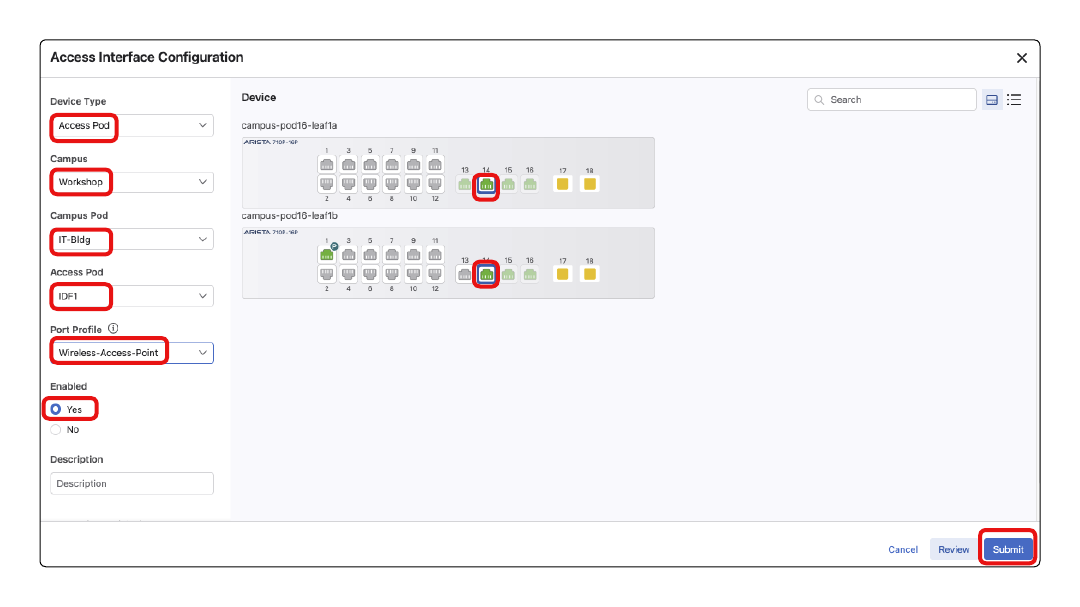
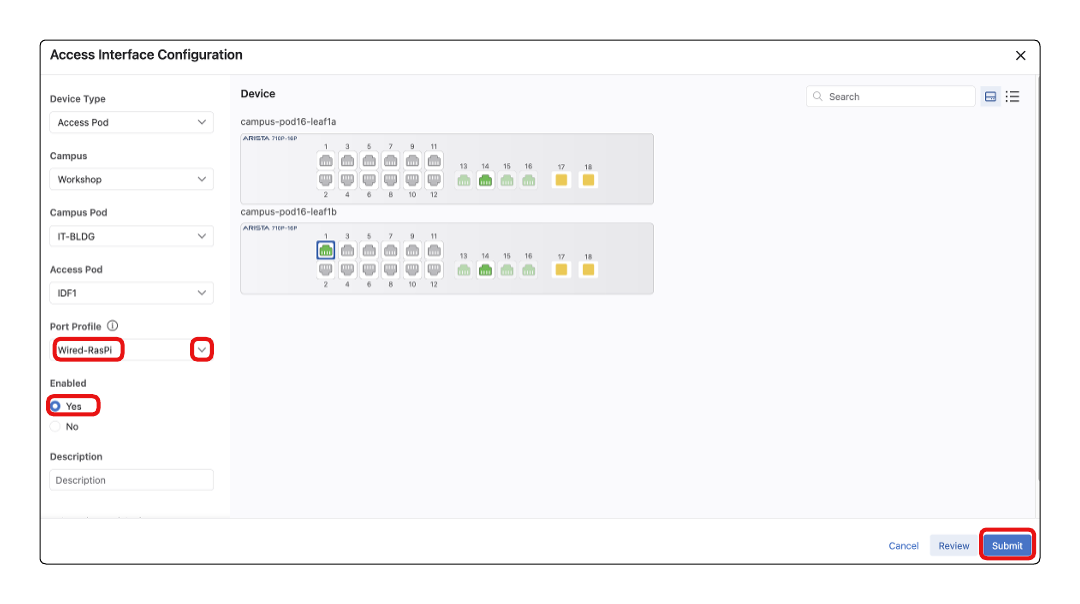
Network Hierarchy config workflow and some formatting in the lab guides

diff --git a/Campus/2026_Campus_Workshop/A-03/2026_Campus_A-03_Wired_Lab_Guide.md b/Campus/2026_Campus_Workshop/A-03/2026_Campus_A-03_Wired_Lab_Guide.md
@@ -174,12 +174,14 @@ You can skip entries for all of the remaining vlan configuration sections.
 
 ![Config Comparison](images/config-comparison.png)
 
-Lab section completed!
+
+
+---
+**LAB SECTION COMPLETED!**
 
  In the next lab section you will see how to roll back a previous change control
 
 ---
-
 ## 5. Rollback a Change Control
 
 A common operational task is to roll back a specific configuration and restore back to previous state. You may need to do this for all devices affected by a change, or only a subset of devices under troubleshooting.
@@ -200,17 +202,21 @@ Let’s roll back the change control we used to add a VLAN via Studios.
 
 ![Create Rollback Change Control](images/create-rollback-cc.png)
 
-4. Verify the Configuration Changes section by clicking “View Diff”  Once you have reviewed the change, click the Review and Approve button
+4. Verify the Configuration Changes section by clicking **View Diff**  Once you have reviewed the change, click the **Review and Approve** button
 
 ![View Diff](images/view-diff.png)
 
-5. You’ll be presented with one more opportunity to review the changes. Select Execute Immediately if not already toggled on and Approve and Execute
+5. You’ll be presented with one more opportunity to review the changes. Select **Execute Immediately** if not already toggled on and then click **Approve and Execute**
 
 ![Execute Rollback](images/execute-rollback.png)
 
 6. Monitor the change control for completion to ensure the added VLAN is cleaned up on all three switches.
 
 ![Rollback Completed](images/rollback-completed.png)
+
+
+---
+**LAB SECTION COMPLETED!**
 
 You have now successfully added a VLAN through Studios and then rolled back that change across all switches.
 
@@ -222,11 +228,11 @@ Dashboards are an important way to visualize commonly requested information. Thi
 
 ### Built in Dashboard: “Campus Health Overview”
 
-1. Open the Dashboards Section to arrive at the Dashboards landing page.
+1. Navigate to **Dashboards** to arrive at the Dashboards landing page.
 
 ![Dashboards Landing Page](images/dashboards-landing.png)
 
-2. Select the built-in Campus Health Overview dashboard
+2. Select the built-in **Campus Health Overview dashboard**
 
 ![Campus Health Overview](images/campus-health-overview1.png)
 
@@ -235,13 +241,13 @@ Dashboards are an important way to visualize commonly requested information. Thi
 ![Campus Health Overview](images/campus-health-overview2.png)
 *Note: We will explore the Quick Actions interactive functions of this dashboard in another lab section.* 
 
-4. Feel free to explore the Campus Health dashboard briefly and then navigate back to the Dashboards landing page by selecting Dashboards in the upper left.
+4. Feel free to explore the Campus Health dashboard briefly and then navigate back to the Dashboards landing page by selecting **Dashboards** in the upper left.
 
 ![Explore Dashboards](images/explore-dashboards.png)
 
 ### Built in Dashboard: “Device Hardware”
 
-1. Next, Select the Device Hardware dashboard
+1. Next, Select the **Device Hardware** dashboard
 
 ![Device Hardware Dashboard](images/device-hardware-dashboard.png)
 
@@ -249,7 +255,7 @@ Dashboards are an important way to visualize commonly requested information. Thi
   
   ![Device Hardware Dashboard2](images/device-hardware-dashboard2.png)
   
-3. Change the dashboard to select only leaf1c by deleting the current query device:*. Replace with the query device:campus-pod[pod#]leaf1c
+3. Change the dashboard to select only **leaf1a** by deleting the current query device:*. Replace with the query **device:campus-pod[pod#]leaf1a**
 
 ![Device Query Edit](images/device-query-edit.png)
 
@@ -257,20 +263,20 @@ Dashboards are an important way to visualize commonly requested information. Thi
 
 ![Dashboard Filter](images/dashboard-filter.png)
 
-5. Navigate back to the Dashboards landing page by clicking Dashboards in upper left.
+5. Navigate back to the Dashboards landing page by clicking **Dashboards** in upper left.
 
 ![Dashboard Navigate](images/dashboard-navigate.png)
 
 ---
  ### Customized dashboard.
 
-1. Click the New Dashboard button.
+1. Click the **New Dashboard** button.
 
 ![New Dashboard](images/new-dashboard.png)
 
 2. New Dashboard
-    - Select the pencil next to Untitled dashboard
-    - Provide a useful name for the Dashboard, such as “Workshop Dashboard” 
+    - Select the **pencil** next to Untitled dashboard
+    - Provide a useful name for the Dashboard, such as **Workshop Dashboard**
 
 ![Rename Dashboard](images/rename-dashboard.png)
 
@@ -280,7 +286,7 @@ Dashboards are an important way to visualize commonly requested information. Thi
 ![Change Metrics to Summaries](images/add-metrics.png)
 
 
-4. Within new metrics tile now added to your dashboard, select either the 3 dots > Configure or **Click to Configure**
+4. Within new metrics tile now added to your dashboard, select either the **3 dots > Configure** or **Click to Configure**
 
 ![Metrics Configure](images/metrics-configure.png)
 
@@ -288,7 +294,7 @@ Dashboards are an important way to visualize commonly requested information. Thi
 
 ![Metrics Configure](images/metrics-configure2.png)
 
-6. Review the availabe Visualization options. Select each of them to determine which would best suite your personal preference.
+6. Review the availabe Visualization options. Select each of them to determine which would best suit your personal preference.
 
 *Note: sometimes when changing the visualization you will have to re-select the metric you would like displayed*
 
@@ -300,12 +306,14 @@ Dashboards are an important way to visualize commonly requested information. Thi
 
 
 
-7. Create another metric by selecting Metrics to the right and configure the new dashboard tile.
+7. Create another metric by selecting **Metrics** panel and configure the new dashboard tile.
 
 
 ![Metrics Configure](images/metrics-configure3.png)
 
-8. Within the Configure Metrics Panel menu, select the dropdown under Data Sources. Select Interfaces
+8. Within the Configure Metrics Panel menu,
+   - Select the dropdown under **Data Sources**
+   - Select **Interfaces**
 
 ![Metrics Configure](images/metrics-configure4.png)
 
@@ -323,7 +331,7 @@ Dashboards are an important way to visualize commonly requested information. Thi
 
 ![Metrics Configure](images/metrics-configure6.png)
 
-11. Dismiss the customization menu with the X button in upper right
+11. Dismiss the customization menu with the **X** button in upper right
 
 ![Close Metrics](images/close-metrics.png)
 
@@ -333,7 +341,7 @@ Dashboards are an important way to visualize commonly requested information. Thi
 
 ![Moving Tiles](images/moving-tiles.png)
 
-12. When done save and complete the dashboard customization by clicking the Done button in upper menu bar
+12. When done save and complete the dashboard customization by clicking the **Done** button in upper menu bar
 
 
 ![Done Dashboard](images/done-dashboard.png)
@@ -341,7 +349,7 @@ Dashboards are an important way to visualize commonly requested information. Thi
 ### Exporting and Importing Dashboards Sharing your Dashboard across Cloudvision systems!
 
 1. In the upper right corner, select the **three-dots** menu and click Export as JSON
-   - Click Download in the lower right corner. This will download a file you can share with others.
+   - Click **Download** in the lower right corner. This will download a file you can share with others.
 
 
 ![Export JSON](images/export-json.png)
@@ -370,7 +378,10 @@ Dashboards are an important way to visualize commonly requested information. Thi
 
 ![Import Dashboard](images/import-dashboard2.png)
 
-Lab section completed!
+
+---
+
+**LAB SECTION COMPLETED!**
 
 ---
 
@@ -378,19 +389,19 @@ Lab section completed!
 
 In this section, we will explore the CloudVision Events. We will reivew the tools and filters to help process and manage critical errors versus informational data.
 
-1. First Open the Events section from the menu bar:
+1. First navigate to the **Events** section in CloudVision:
 
 ![Events Menu](images/events-menu.png)
 
 2. Filter Events
-    - To filter only display more recent events, select the dropdown next to the displayed timeframe
+    - To filter and only display more recent events, select the dropdown next to the displayed timeframe
     - Select **1 Hour**
     - You can select how the events are displayed in the menu by selecting the icon for either a **graphical view** or a **table view**
 
 ![Change Timeframe](images/change-timeframe.png)
 
 
-3. Focusing on the Event List next, Note the Export button to download the current Event list as CSV. Notice you can download All Events or only Selected:
+3. Focusing on the Event List next, Note the **Export** button to download the current Event list as CSV. Notice you can **Download All Events** or **Only Selected**:
 
 ![Export Events CSV](images/export-events-csv1.png)
 
@@ -400,7 +411,7 @@ In this section, we will explore the CloudVision Events. We will reivew the tool
 
 5. Next, utilizing the Event Filters on the right you can reduce the amount of data displayed.
 
-    - Ensure that only **Critical** and **Warning** are the only highlighted event severity by toggling off all other severity levels.
+    - Ensure that **Critical** and **Warning** are the only highlighted event severity by toggling off all other severity levels.
     - Select the dropdown under Type. Search for **Device Clock Out of Sync** and **Unexpected Link Failure**
 
 *We are now only seeing events associated with the filter we have established*
@@ -408,7 +419,7 @@ In this section, we will explore the CloudVision Events. We will reivew the tool
 
 6. Acknowledge and Unacknowledging events
 
-    - Review the events displayed. You can acknoledge events by selecting the radial button nexto the the displayed event.
+    - Review the events displayed. You can acknoledge events by selecting the radial button next to the displayed event.
     - Select **Acknowledge X**
     - A pop up window will be displayed. You can **Acknowledge** these events and include a note to provide additional context on root cause or fix action.
 
@@ -482,7 +493,7 @@ In this section we will show you how to customize the notifications that can be 
 
 ![Add Event Type](images/add-event-type.png)
 
-9. Make sure to save your changes in this screen with the Save button along the top of your screen.
+9. Make sure to save your changes in this screen with the **Save** button along the top of your screen.
 
 ![Receiver Save Changes](images/receiver-save-changes.png)
 
@@ -503,4 +514,6 @@ In this section we will show you how to customize the notifications that can be 
 
 ---
 
-END OF LAB GUIDE
+**END OF LAB GUIDE**
+
+---

diff --git a/Campus/2026_Campus_Workshop/A-02/2026_Campus_A-02_Wired_Lab_Guide.md b/Campus/2026_Campus_Workshop/A-02/2026_Campus_A-02_Wired_Lab_Guide.md
@@ -106,9 +106,9 @@ In order to make any changes within the Studios framework, you need to create a 
 
 8. LACP Fallback
     - Mode: **Individual**
+    - Navigate back to the previous page by clicking the breadcrump labeled **Wireless-Access-Point**
 
 ![Add Port Profile Wireless5](images/add-port-profile-wireless5.png)
-
 
 9. POE:  
     - Reboot Action: **Maintain**
@@ -169,7 +169,7 @@ In order to make any changes within the Studios framework, you need to create a 
 
 ![Review Workspace](images/review-workspace.png)
 
-*Note that none of the device configurations have been changed after submitting this workspace*
+*Note that no device configurations changes are being proposed. We have simply created the **template** we will use to assign configuration to an interface*
    
 18. Select **Submit Workspace**
 
@@ -180,7 +180,8 @@ In order to make any changes within the Studios framework, you need to create a 
 
 ![Close Workspace Pop up](images/submit-workspace.png)
 
-*You have succesfully created both port profiles. In the next section, we will assign the configuration to interfaces*
+
+**Lab Section Complete!**
 
 ---
 
@@ -188,53 +189,53 @@ In order to make any changes within the Studios framework, you need to create a 
 
 1. Assign the configured port profiles to the switches access ports
 
-    - Click Overview option on the navigation bar
+    - Navigate to **Network Hierarchy**
+    - Navigate through 
+      - **Network**  
+      - **Workshops** 
+      - **IT-Bldg**  
+      - **IDF1**
 
-![Overview Navigation](images/overview-navigation.png)
+![Hierarchy Navigation](images/hierarchy-navigation.png)
 
-2. Locate the Quick Actions panel on the lower left of the screen and Click Access Interface Configuration
+2. Select the **Front Panel** tab
 
-![Quick Actions Access Interface Configuration](images/quick-actions-access-interface.png)
+![Hierarchy Front Panel](images/quick-action1.png)
 
-3. Access Interface Configuration Fields:
-    - Device Type: **Access Pod**
-    - Campus: **Workshop**
-    - Campus Pod: **IT-Bldg**
-    - Access Pod: **IDF1**
+3. Select **Ethernet1** on **leaf1b**
+    - Select **Configure**
 
-*Note: There should be the only one options for each drop-down.*
+![Quick Action Select Interface](images/quick-action2.png)
 
-![Quick Action Select Device](images/quick-action1.png)
-
-4. Interface Selection:
-    - **Select** to highlight port **Ethernet1** on switch labeled **campus-pod{$POD#}-leaf1b**
+4. All Fields should be pre-populated except the below
     - Port Profile: **Wired-RasPi**
-    - Enabled: **Yes** 
-    - Click **Submit**
+    - Enabled: **Yes**
+    - Select **Submit**
 
-![Submit Wireless Port Profile](images/quick-action2.png)
+![Submit Wired Profile](images/quick-action3.png)
 
-5. Once the Change Control has been executed, click **Configure Additional Inputs** to configure another access port
+5. Once the Change Control has been executed, click **Close** 
 
-![Configure Additional Inputs](images/configure-additional-inputs.png)
+![Quick Action Close](images/quick-action4.png)
 
-6. AP Interface Configuration:
-  - Device Type: **Access Pod**
-  - Campus: **Workshop**
-  - Campus Pod: **IT-Bldg**
-  - Access Pod: **IDF1**
-  - **Select** to highlight port **Ethernet14** on switches labeled **campus-pod{$POD#}-leaf1a and b**
-  - Port Profile: **Wireless-Access-Point**
-  - Enabled: **Yes** 
-  - Click **Submit**
+6. AP Interface Configuration
+  - Select **Ethernet14** on both **leaf1a** and **leaf1b**
+  - Select **Configure**
+  
 
-![Quick Actions 3](images/quick-action3.png)
+![Quick Actions 3](images/quick-action5.png)
 
 
-7. Once the Change Control has been executed, click Finish
+7. All Fields should be pre-populated except the below
+    - Port Profile: **Wireless-Access-Point**
+    - Enabled: **Yes**
+    - Select **Submit**
 
-![Finish Configuration](images/finish-configuration.png)
+![Finish Configuration](images/quick-action6.png)
 
+8. Select **Close**
+
+![Quick Action Close](images/quick-action4.png)
 ---
 
-LAB GUIDE COMPLETE
+**LAB GUIDE COMPLETE!**
